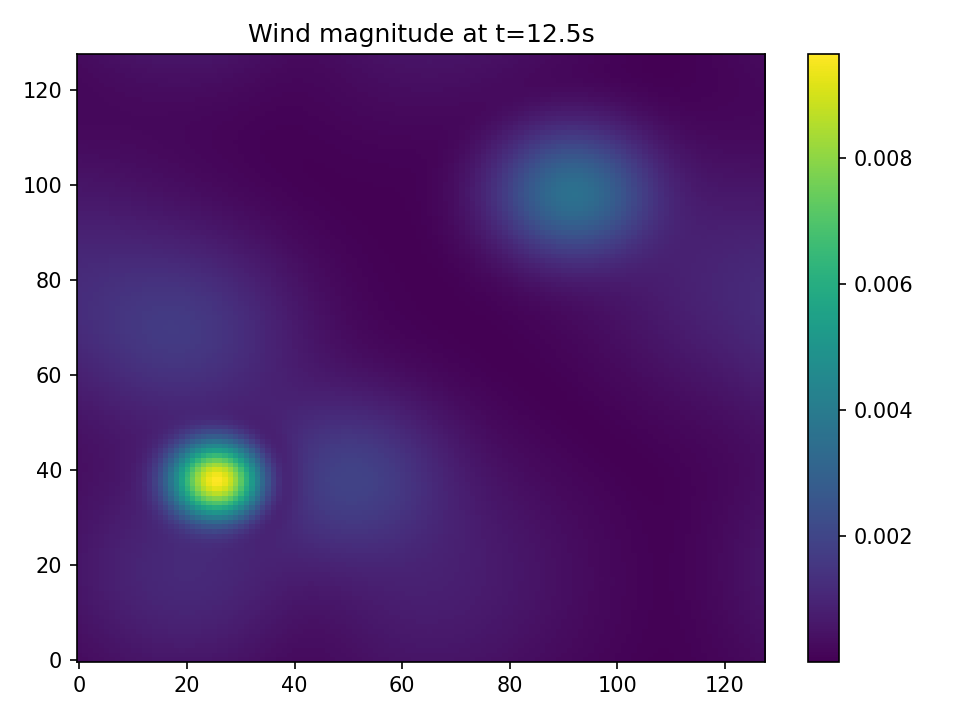
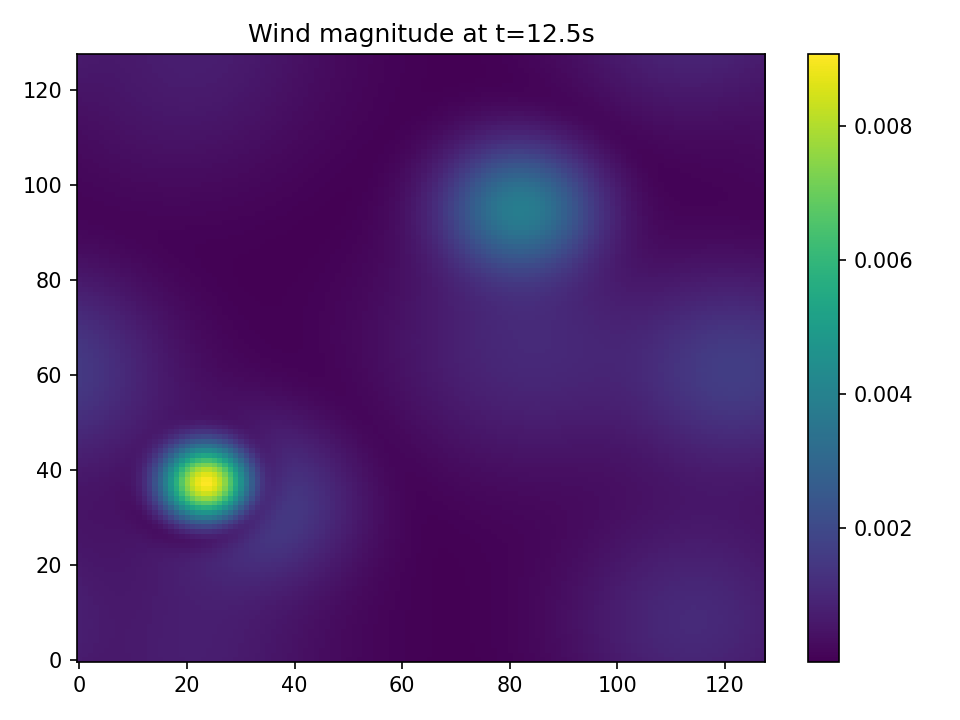
Add GIF demo + safe bilinear wind sampler (avoid macOS grid_sample segfault)

diff --git a/experiments/exp_01_pid_vs_wind.py b/experiments/exp_01_pid_vs_wind.py
@@ -1,5 +1,6 @@
 from __future__ import annotations
 import os
+import shutil
 import numpy as np
 import torch
 
@@ -9,6 +10,7 @@ from torch_uav.control.pid import PIDPositionController, PIDConfig
 from torch_uav.coupling.wind_sampling import sample_wind_bilinear
 from torch_uav.numerics.time_integrators import rk4_step
 from torch_uav.viz.plots import ensure_dir, plot_trajectory, plot_tracking_error, plot_wind_snapshot
+from torch_uav.viz.animate import save_frame, make_gif
 
 def reference_circle(t: float, center=(5.0, 5.0), radius=2.5, omega=0.45):
     cx, cy = center
@@ -25,17 +27,25 @@ def main():
     outdir = "assets"
     ensure_dir(outdir)
 
+    frames_dir = os.path.join(outdir, "frames_pid_wind")
+    if os.path.exists(frames_dir):
+        shutil.rmtree(frames_dir)
+    os.makedirs(frames_dir, exist_ok=True)
+
+    # Wind PDE
     wcfg = WindPDEConfig(
         H=128, W=128, Lx=10.0, Ly=10.0, nu=0.08,
-        advect_vel=(0.8, 0.3),
+        advect_vel=(0.5, 0.2),
         source_strength=1.8, source_sigma=0.35, source_period=2.0
     )
     wind_pde = WindFieldPDE(wcfg, device=device)
     wind_pde.reset(seed=0)
 
+    # UAV
     ucfg = PointMassUAVConfig(m=1.0, drag_k=0.9, u_max=7.0)
     uav = PointMassUAV(ucfg, device=device)
 
+    # Controller
     pcfg = PIDConfig(kp=7.0, kd=4.5, ki=0.7, integral_limit=2.0)
     pid = PIDPositionController(pcfg, device=device)
     pid.reset()
@@ -55,6 +65,10 @@ def main():
 
     cfl = wind_pde.max_cfl(dt)
     print(f"Wind PDE CFL-ish indicator (heuristic): {cfl:.3f}")
+
+    # For GIF: save every N steps
+    save_every = 5  # 25s / 0.01 = 2500 steps -> 500 frames at every 5 (reasonable)
+    frame_idx = 0
 
     for k in range(steps):
         t = k * dt
@@ -78,6 +92,7 @@ def main():
 
         x = rk4_step(x, t, dt, f)
 
+        # periodic wrap
         x[0] = x[0] % wcfg.Lx
         x[1] = x[1] % wcfg.Ly
 
@@ -85,6 +100,7 @@ def main():
         pref_hist[k] = p_ref_np
         err_hist[k] = float(torch.linalg.norm((x[0:2] - p_ref)).detach().cpu())
 
+        # snapshots
         if any(abs(t - s) < 0.5*dt for s in snap_times):
             wind_np = wind_pde.wind.detach().cpu().numpy()
             plot_wind_snapshot(
@@ -93,9 +109,39 @@ def main():
                 title=f"Wind magnitude at t={t:.1f}s"
             )
 
+        # GIF frames
+        if (k % save_every) == 0:
+            wind_np = wind_pde.wind.detach().cpu().numpy()
+
+            # Map domain coords -> pixel coords for overlay on imshow:
+            # x in [0,Lx] -> [0,W-1], y in [0,Ly] -> [0,H-1]
+            def to_pix(pxy):
+                return np.array([
+                    (pxy[0] / wcfg.Lx) * (wcfg.W - 1),
+                    (pxy[1] / wcfg.Ly) * (wcfg.H - 1),
+                ], dtype=np.float32)
+
+            p_pix = to_pix(p_hist[k])
+            pref_pix = to_pix(p_ref_np)
+
+            frame_path = os.path.join(frames_dir, f"frame_{frame_idx:06d}.png")
+            save_frame(
+                wind_np,
+                p=p_pix,
+                p_ref=pref_pix,
+                outpath=frame_path,
+                title=f"t = {t:.2f}s"
+            )
+            frame_idx += 1
+
     plot_trajectory(p_hist, pref_hist, os.path.join(outdir, "trajectory.png"))
     plot_tracking_error(err_hist, t_hist, os.path.join(outdir, "tracking_error.png"))
+
+    gif_path = os.path.join(outdir, "demo_pid_wind.gif")
+    make_gif(frames_dir, gif_path, fps=20)
+
     print("Saved outputs to assets/")
+    print("GIF:", gif_path)
 
 if __name__ == "__main__":
     main()

diff --git a/src/torch_uav/viz/animate.py b/src/torch_uav/viz/animate.py
@@ -1,0 +1,48 @@
+from __future__ import annotations
+import os
+from typing import Optional
+import numpy as np
+import matplotlib.pyplot as plt
+
+def save_frame(
+    wind: np.ndarray,          # (2,H,W)
+    p: np.ndarray,             # (2,)
+    p_ref: np.ndarray,         # (2,)
+    outpath: str,
+    title: str = "",
+) -> None:
+    """
+    Save a single PNG frame visualizing wind magnitude + UAV/ref points.
+    """
+    mag = np.sqrt(wind[0]**2 + wind[1]**2)
+
+    plt.figure()
+    plt.imshow(mag, origin="lower", aspect="auto")
+    plt.colorbar(label="|wind|")
+
+    plt.scatter([p_ref[0]], [p_ref[1]], marker="x", s=60)
+    plt.scatter([p[0]], [p[1]], marker="o", s=40)
+
+    plt.title(title)
+    plt.tight_layout()
+    plt.savefig(outpath, dpi=140)
+    plt.close()
+
+def make_gif(frames_dir: str, gif_path: str, fps: int = 20) -> None:
+    """
+    Build a GIF from PNG frames named frame_000000.png, frame_000001.png, ...
+    Uses duration (ms per frame) for compatibility with new imageio.
+    """
+    import imageio.v2 as imageio  # avoid deprecation warnings
+
+    files = sorted([f for f in os.listdir(frames_dir) if f.endswith(".png")])
+    if not files:
+        raise RuntimeError(f"No frames found in {frames_dir}")
+
+    images = []
+    for f in files:
+        images.append(imageio.imread(os.path.join(frames_dir, f)))
+
+    # duration is milliseconds per frame
+    duration_ms = int(1000 / fps)
+    imageio.mimsave(gif_path, images, duration=duration_ms)
